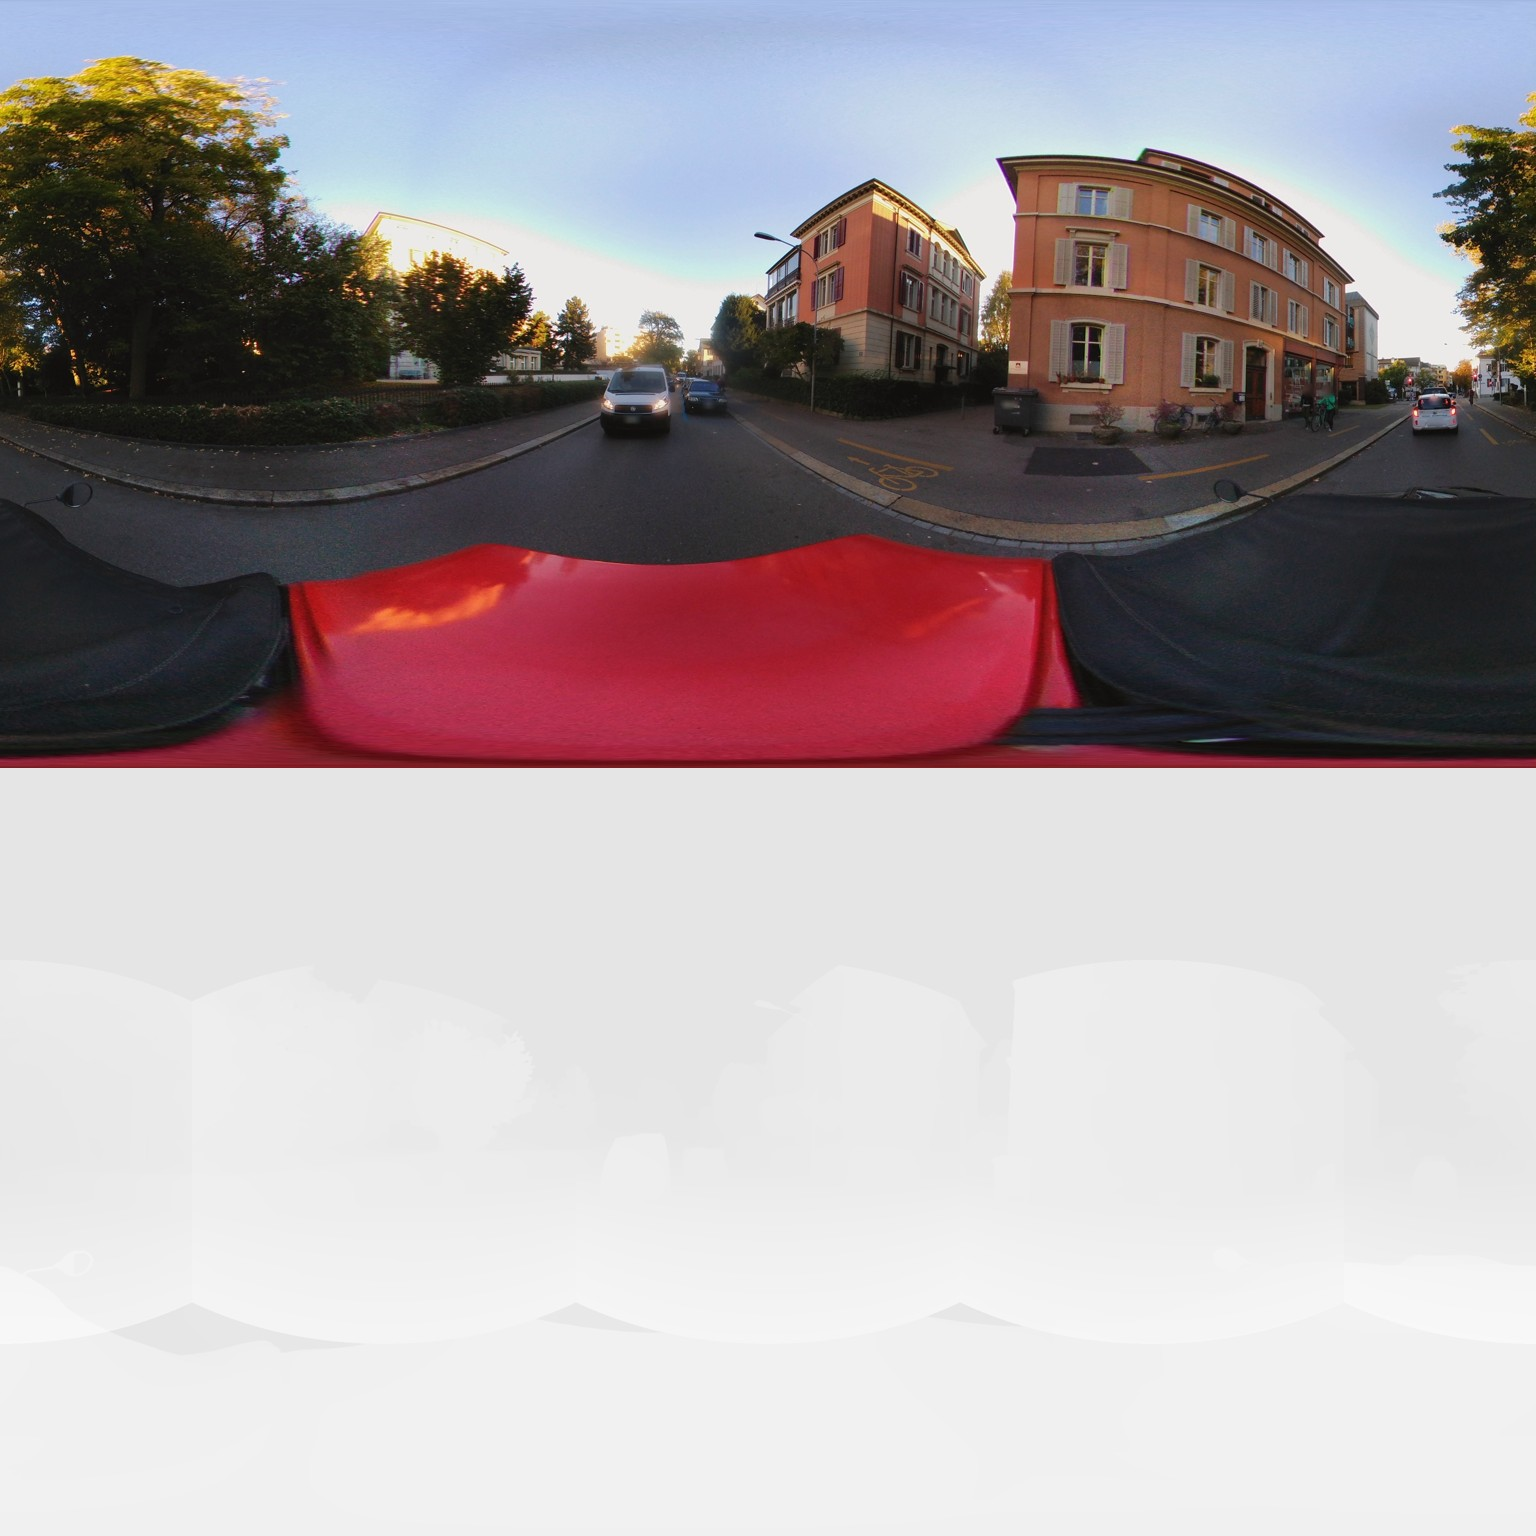
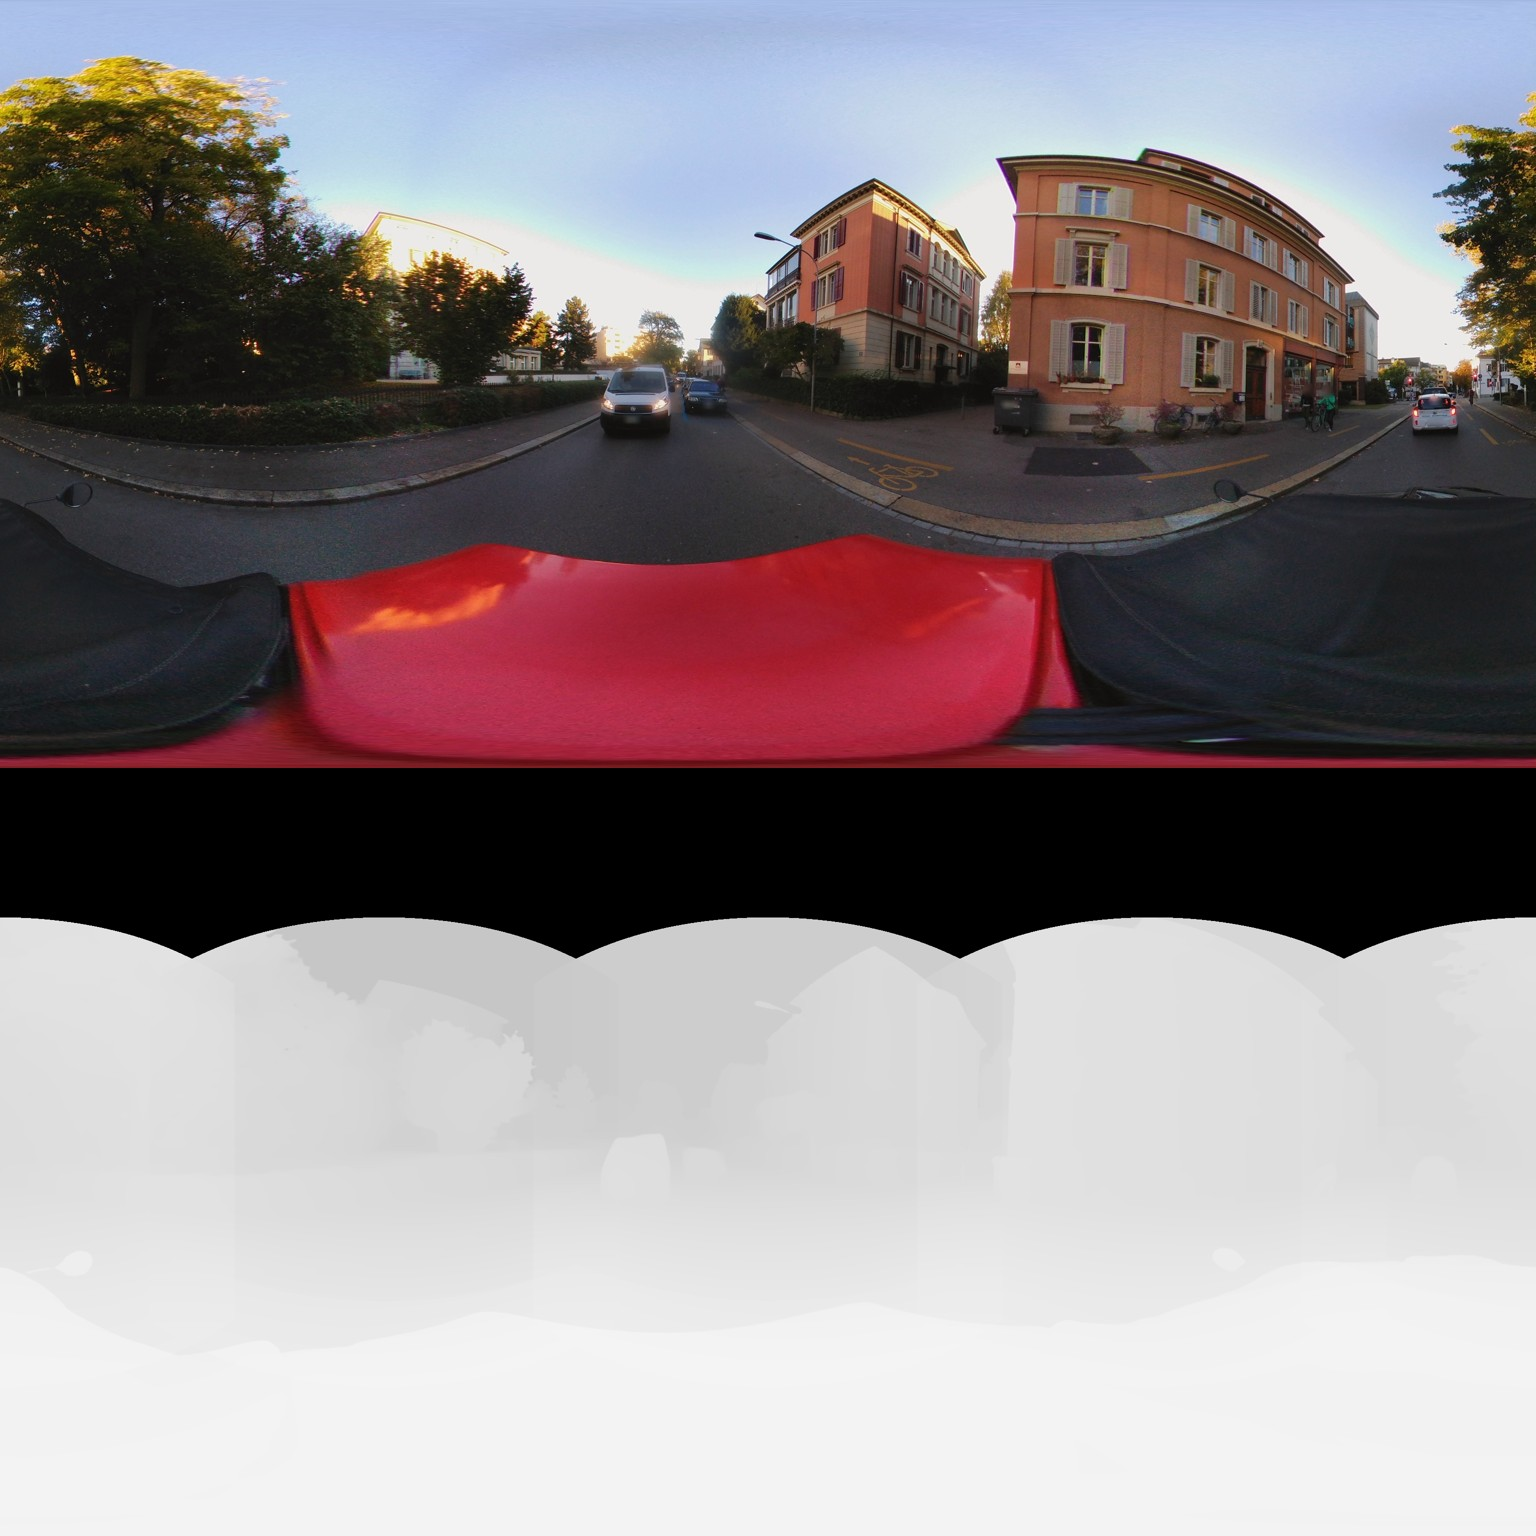
Joint per-face depth solve: works mechanically, fails to produce usable range
Implements the fix identified last commit. Each cubemap face gets its own scale
and shift, solved together from two kinds of equation: overlaps, where two faces
see the same direction and their metric disparities must agree, which ties the
ring of faces into one consistent scale; and ground, where a downward ray meets
the terrain at a distance swissALTI3D can state exactly.

Faces are cut at 110 degrees rather than 90 so they genuinely overlap -- at 90
they only touch along an edge and there are no shared directions to tie them
with.

Three further corrections along the way:
- ground samples balanced in log distance rather than by pixel. Road 3 m away
  fills a wedge of the image, road 70 m away a sliver near the horizon, yet the
  sliver carries all the far-field information.
- the ground anchor marches against the real swissALTI3D surface instead of an
  assumed flat plane. Zurich is hilly, and on a rising street a near-horizon ray
  meets tarmac far sooner than flat geometry predicts.
- sky excluded, since it has no distance.

The solve is mechanically sound: the five faces now agree, scales landing within
0.015 to 0.026 of each other where before they were incomparable. But the shift
term stays around 0.06, which caps every scene at roughly 1/shift, and the depth
map has almost no dynamic range -- buildings, road and parked cars all come back
within a few metres of each other. Six attempts moved the ceiling 6 -> 12 -> 15
-> 18 m and no further.
[…]

Changed region(s): [[0.0, 0.5, 1.0, 0.75]]

diff --git a/tools/pano_depth.py b/tools/pano_depth.py
@@ -33,6 +33,8 @@ import numpy as np
 import onnxruntime as ort
 from PIL import Image
 
+from zurich_world import terrain_at
+
 HERE = pathlib.Path(__file__).parent
 DATA = HERE.parent / "data"
 PANOS = DATA / "panoramas"
@@ -41,6 +43,10 @@ MODEL_URL = ("https://huggingface.co/onnx-community/depth-anything-v2-small/"
              "resolve/main/onnx/model.onnx")
 
 FACE = 518          # Depth Anything V2 input size
+# Faces are cut at 110°, not 90°. At exactly 90° adjacent faces only touch along
+# an edge, and the joint solve below needs shared directions — genuinely
+# overlapping cones — to tie one face's scale to its neighbour's.
+FACE_FOV = 110.0
 CAMERA_HEIGHT = 2.2
 # Faces: name, forward vector. Up is omitted — it is sky, and sky has no useful
 # depth; down is kept because the road is the anchor the scale is fitted to.
@@ -81,7 +87,8 @@ def face_directions(forward: np.ndarray, size: int) -> np.ndarray:
     right /= np.linalg.norm(right)
     up = np.cross(forward, right)
 
-    t = (np.arange(size) + 0.5) / size * 2 - 1      # -1..1 across a 90° face
+    half = np.tan(np.radians(FACE_FOV) / 2)
+    t = ((np.arange(size) + 0.5) / size * 2 - 1) * half
     u, v = np.meshgrid(t, t)
     d = forward[None, None, :] + u[..., None] * right + v[..., None] * up
     return d / np.linalg.norm(d, axis=2, keepdims=True)
@@ -128,14 +135,59 @@ def bilinear(img: np.ndarray, col: np.ndarray, row: np.ndarray) -> np.ndarray:
             + img[r0 + 1, c0] * (1 - fc) * fr + img[r0 + 1, c0 + 1] * fc * fr)
 
 
-def panorama_depth(rgb: np.ndarray):
-    """Metric-shaped inverse depth per pixel of an equirectangular panorama.
+def ground_disparity(rays: np.ndarray, origin, terrain) -> np.ndarray:
+    """Metric disparity where each downward ray actually meets the ground.
 
-    Gathers rather than scatters. Pushing 518x518 samples per face outward into
-    a 3072x1536 grid leaves three quarters of it empty, and no amount of hole
-    filling recovers that — the first version of this produced a uniform depth
-    map because the scale fit saw almost nothing but road. Asking each output
-    pixel which face it came from cannot leave a hole.
+    Marches the ray against the swissALTI3D height field rather than against an
+    assumed flat plane. Returns 0 where the ray never lands, so those samples
+    drop out of the fit.
+    """
+    ox, oy, oz = origin
+    out = np.zeros(rays.shape[0], np.float64)
+    steps = np.concatenate([np.arange(1.0, 20.0, 0.5), np.arange(20.0, 160.0, 2.0)])
+    prev_gap = None
+    prev_t = None
+    for tt in steps:
+        px = ox + rays[:, 0] * tt
+        py = oy + rays[:, 1] * tt
+        pz = oz + rays[:, 2] * tt
+        gh = np.array([terrain_at(terrain, float(a), float(b)) for a, b in zip(px, pz)])
+        gap = py - gh                      # positive while still above ground
+        if prev_gap is not None:
+            crossed = (prev_gap > 0) & (gap <= 0) & (out == 0)
+            if crossed.any():
+                # Linear interpolation between the bracketing steps.
+                f = prev_gap[crossed] / np.maximum(1e-6, prev_gap[crossed] - gap[crossed])
+                out[crossed] = prev_t + f * (tt - prev_t)
+        prev_gap, prev_t = gap, tt
+    hit = out > 0.5
+    disp = np.zeros(rays.shape[0], np.float64)
+    disp[hit] = 1.0 / out[hit]
+    return disp
+
+
+def panorama_depth(rgb: np.ndarray, origin=None, terrain=None):
+    """Metric depth per pixel, by solving all faces together.
+
+    Depth Anything normalises every image it is given, so the five faces come
+    back in five incompatible scales — measured disparity maxima on one panorama
+    were 9.3, 10.7, 15.3, 8.5 and 5.6, all bottoming out at zero. Assembling them
+    and fitting a single scale and shift to the result is meaningless, and it
+    collapses every pixel to roughly the same distance.
+
+    So solve for a scale and shift *per face*, from two kinds of equation:
+
+      overlap  where two faces see the same direction, their metric disparities
+               must agree — this ties the ring of faces into one scale
+      ground   where a ray points below the horizon it eventually meets the
+               ground, and swissALTI3D says exactly where. Assuming instead a
+               flat level road is wrong in a way that matters: Zurich is hilly,
+               and on a rising street a near-horizon ray meets tarmac far sooner
+               than flat geometry predicts, so every far anchor is too distant
+               and the whole fit compresses.
+
+    The overlaps make the faces mutually consistent; the ground makes them
+    metric. Neither alone is enough.
     """
     h, w = rgb.shape[:2]
     lon = (np.arange(w) + 0.5) / w * 2 * np.pi - np.pi
@@ -145,82 +197,147 @@ def panorama_depth(rgb: np.ndarray):
                      -np.sin(LAT),
                      np.cos(LAT) * np.cos(LON)], axis=2)
 
-    inv_depth = np.zeros((h, w), np.float32)
-    valid = np.zeros((h, w), bool)
+    half = np.tan(np.radians(FACE_FOV) / 2)
+    per_face, inside_face, central = [], [], []
 
     for _, forward in FACES:
         fdirs = face_directions(forward, FACE)
-        face = sample_equirect(rgb, fdirs)
-        est = estimate(face)
+        est = estimate(sample_equirect(rgb, fdirs))
         if est.shape != (FACE, FACE):
             est = np.asarray(Image.fromarray(est).resize((FACE, FACE), Image.BILINEAR))
 
         right, up = face_basis(forward)
         ahead = dirs @ forward
-        u = (dirs @ right)
-        v = (dirs @ up)
         with np.errstate(divide="ignore", invalid="ignore"):
-            fu = u / ahead
-            fv = v / ahead
-        # Inside this face, with a sliver of margin so neighbours meet cleanly.
-        inside = (ahead > 1e-6) & (np.abs(fu) <= 1.001) & (np.abs(fv) <= 1.001)
-        if not inside.any():
-            continue
-        col = (fu[inside] + 1) / 2 * FACE - 0.5
-        row = (fv[inside] + 1) / 2 * FACE - 0.5
-        inv_depth[inside] = bilinear(est, col, row)
-        valid[inside] = True
+            fu = (dirs @ right) / ahead
+            fv = (dirs @ up) / ahead
+        inside = (ahead > 1e-6) & (np.abs(fu) <= half) & (np.abs(fv) <= half)
 
-    return inv_depth, valid, dirs
+        d = np.zeros((h, w), np.float32)
+        if inside.any():
+            col = (fu[inside] / half + 1) / 2 * FACE - 0.5
+            row = (fv[inside] / half + 1) / 2 * FACE - 0.5
+            d[inside] = bilinear(est, col, row)
+        per_face.append(d)
+        inside_face.append(inside)
+        # How square-on the ray is: a face's own centre is far more trustworthy
+        # than its corners, both for blending and for weighting the solve.
+        c = np.zeros((h, w), np.float32)
+        c[inside] = np.clip(ahead[inside], 0, 1) ** 2
+        central.append(c)
 
-
-def anchor_to_metres(inv_depth, valid, dirs):
-    """Fit scale and shift so the road comes out at its true distance.
-
-    Depth Anything returns relative inverse depth: correct in shape, arbitrary
-    in units. The ground gives the anchor, because for any ray pointing below
-    the horizon the distance to a flat road is camera height over the sine of
-    the angle below it. Fitting against those rays converts the whole map to
-    metres without needing any other measurement.
-    """
+    n = len(FACES)
     down = -dirs[..., 1]
-    # The band has to be wide, and that is the whole difficulty. Rays steeply
-    # below the horizon hit the road 3 m away; rays just below it hit the same
-    # road 70 m away. Fitting only the steep ones gives an 8 m baseline, and
-    # extrapolating a disparity fit from 8 m out to 100 m collapses the slope to
-    # nothing — every pixel then lands at the same distance, which is exactly
-    # what the first attempt produced. Below 0.75 excludes the capture vehicle.
-    band = (down > 0.030) & (down < 0.75) & valid
-    if band.sum() < 500:
-        return None
-    true_depth = CAMERA_HEIGHT / down[band]
-    inv_true = 1.0 / true_depth
-    x = inv_depth[band]
-    # Sky leaks into the shallow end of the band on an uphill street; its
-    # disparity is near zero and it would drag the fit.
-    alive = x > np.percentile(inv_depth[valid], 2)
-    x, inv_true = x[alive], inv_true[alive]
-    if x.size < 500:
-        return None
+    sub = (slice(None, None, 6), slice(None, None, 6))     # subsample for the solve
 
-    # Robust least squares: a fifth of that band is the car's bonnet, kerbs and
-    # painted lines rather than clean road, and those would drag a plain fit.
-    keep = np.ones(x.shape, bool)
-    scale = shift = 0.0
-    for _ in range(4):
-        A = np.stack([x[keep], np.ones(keep.sum())], axis=1)
-        sol, *_ = np.linalg.lstsq(A, inv_true[keep], rcond=None)
-        scale, shift = float(sol[0]), float(sol[1])
-        resid = np.abs(scale * x + shift - inv_true)
-        keep = resid < max(1e-4, 2.5 * np.median(resid))
+    rows, rhs, weights = [], [], []
+
+    # --- overlap equations ---
+    for i in range(n):
+        for j in range(i + 1, n):
+            both = inside_face[i][sub] & inside_face[j][sub]
+            if both.sum() < 200:
+                continue
+            di = per_face[i][sub][both]
+            dj = per_face[j][sub][both]
+            wgt = np.minimum(central[i][sub][both], central[j][sub][both])
+            keep = wgt > 0.15
+            if keep.sum() < 200:
+                continue
+            di, dj, wgt = di[keep], dj[keep], wgt[keep]
+            # Cap how many equations any one pair contributes, so a large
+            # overlap cannot outvote the ground anchor.
+            if di.size > 4000:
+                pick = np.random.default_rng(0).choice(di.size, 4000, replace=False)
+                di, dj, wgt = di[pick], dj[pick], wgt[pick]
+            r = np.zeros((di.size, 2 * n), np.float64)
+            r[:, 2 * i] = di
+            r[:, 2 * i + 1] = 1
+            r[:, 2 * j] = -dj
+            r[:, 2 * j + 1] = -1
+            rows.append(r)
+            rhs.append(np.zeros(di.size))
+            weights.append(wgt)
+
+    # --- ground equations ---
+    ground_total = 0
+    for i in range(n):
+        m = inside_face[i][sub] & (down[sub] > 0.030) & (down[sub] < 0.75)
+        if m.sum() < 200:
+            continue
+        di = per_face[i][sub][m]
+        if origin is None or terrain is None:
+            true_disp = down[sub][m] / CAMERA_HEIGHT
+        else:
+            true_disp = ground_disparity(dirs[sub][m], origin, terrain)
+        wgt = central[i][sub][m]
+        keep = (wgt > 0.15) & (di > 1e-4) & (true_disp > 1e-6)
         if keep.sum() < 200:
-            break
+            continue
+        di, true_disp, wgt = di[keep], true_disp[keep], wgt[keep]
 
-    metric_inv = scale * inv_depth + shift
-    depth = np.full(inv_depth.shape, np.inf, np.float32)
-    good = metric_inv > 1e-3
-    depth[good] = 1.0 / metric_inv[good]
-    return np.clip(depth, 0.5, 300.0), good
+        # Balance the band in log distance, not in pixels. Road 3 m away fills a
+        # huge wedge of the image; road 70 m away is a thin sliver near the
+        # horizon — yet the sliver carries all the far-field information. Sampled
+        # by pixel the fit is swamped by near ground, and the shift term rises
+        # until 1/shift caps the whole scene at about 11 m, which is exactly the
+        # ceiling this produced before.
+        dist = 1.0 / np.maximum(true_disp, 1e-6)
+        bins = np.clip(((np.log(dist) - np.log(2.5)) / (np.log(90.0) - np.log(2.5))
+                        * 12).astype(int), 0, 11)
+        rng = np.random.default_rng(1)
+        chosen = []
+        for bi in range(12):
+            idx = np.flatnonzero(bins == bi)
+            if idx.size == 0:
+                continue
+            take = min(idx.size, 500)
+            chosen.append(rng.choice(idx, take, replace=False))
+        if not chosen:
+            continue
+        sel = np.concatenate(chosen)
+        di, true_disp, wgt = di[sel], true_disp[sel], wgt[sel]
+        r = np.zeros((di.size, 2 * n), np.float64)
+        r[:, 2 * i] = di
+        r[:, 2 * i + 1] = 1
+        rows.append(r)
+        rhs.append(true_disp)
+        # The ground is the only metric information in the whole system.
+        weights.append(wgt * 3.0)
+        ground_total += di.size
+
+    if not rows or ground_total < 500:
+        return None
+    A = np.vstack(rows)
+    b = np.concatenate(rhs)
+    W = np.concatenate(weights)
+
+    # Robust: parked cars, kerbs and anything standing on the road break the
+    # flat-ground assumption, and a plain fit lets them drag the scale.
+    sol = None
+    for _ in range(4):
+        Aw = A * W[:, None]
+        sol, *_ = np.linalg.lstsq(Aw, b * W, rcond=None)
+        resid = np.abs(A @ sol - b)
+        scale = max(1e-6, 2.5 * np.median(resid))
+        W = np.concatenate(weights) * np.clip(1.0 - resid / (4 * scale), 0.05, 1.0)
+
+    # --- compose ---
+    disp = np.zeros((h, w), np.float64)
+    wsum = np.zeros((h, w), np.float64)
+    for i in range(n):
+        m = inside_face[i]
+        a_i, b_i = sol[2 * i], sol[2 * i + 1]
+        contrib = a_i * per_face[i][m] + b_i
+        disp[m] += contrib * central[i][m]
+        wsum[m] += central[i][m]
+    good = wsum > 1e-6
+    disp[good] /= wsum[good]
+
+    solid = good & (disp > 1.0 / 300.0)
+    depth = np.full((h, w), np.inf, np.float32)
+    depth[solid] = (1.0 / disp[solid]).astype(np.float32)
+    return np.clip(depth, 0.5, 300.0), solid, dirs, sol
 
 
 def run_one() -> int:
@@ -230,12 +347,17 @@ def run_one() -> int:
     rgb = np.asarray(Image.open(src).convert("RGB"))
     print(f"  {src.name}  {rgb.shape[1]}x{rgb.shape[0]}")
 
-    inv, valid, dirs = panorama_depth(rgb)
-    fitted = anchor_to_metres(inv, valid, dirs)
+    world = json.loads((DATA / "zurich_world.json").read_text())
+    terrain = world["terrain"]
+    origin = (pano["pos"][0], pano["pos"][1], pano["pos"][2])
+    fitted = panorama_depth(rgb, origin=origin, terrain=terrain)
     if fitted is None:
         print("  FAIL — not enough ground to anchor the scale", file=sys.stderr)
         return 1
-    depth, good = fitted
+    depth, good, dirs, sol = fitted
+    print("  per-face scale/shift:")
+    for k, (name, _) in enumerate(FACES):
+        print(f"    {name:6s} scale {sol[2*k]:8.4f}  shift {sol[2*k+1]:+8.4f}")
 
     band = depth[(depth < 250) & good]
     print(f"  depth {np.percentile(band,2):.1f}..{np.percentile(band,98):.1f} m "
